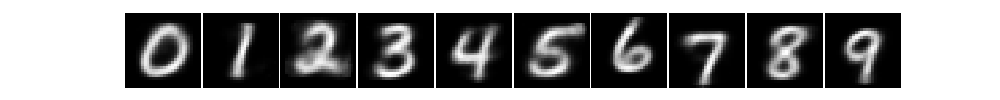
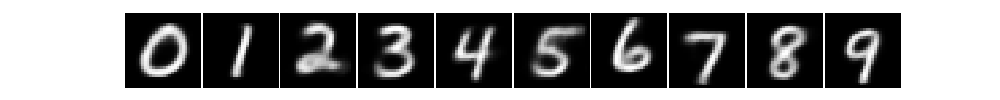
generation using cnn end2end

diff --git a/autoencoders/models.py b/autoencoders/models.py
@@ -3,7 +3,7 @@ import numpy as np
 import keras
 from keras.models import Model
 from keras.layers import Input, Dense, Dropout, Lambda, Activation, Reshape, Flatten
-from keras.layers import Conv2D, MaxPooling2D, UpSampling2D
+from keras.layers import Conv2D, MaxPooling2D, UpSampling2D, Conv2DTranspose
 
 class Flatten_AE():
 
@@ -24,7 +24,7 @@ class Flatten_AE():
 		self.encoder = Model(self.encoder_input, self.encoder_layer)
 		self.decoder_layers = lambda x: decode_dense_3(decode_dense_2(decode_dense_1(x)))
 
-class CNN_AE_old():
+class CNN_AE():
 	def __init__(self, input_size, latent_size, img_size):
 		self.encoder_input = Input(shape=(input_size,), name='enc_input') 
 		x = Dense(img_size**2, activation='relu', name='enc_dense_1')(self.encoder_input)
@@ -58,32 +58,58 @@ class CNN_AE_old():
 		self.ae = Model(self.encoder_input, decoded_layer)
 		self.encoder = Model(self.encoder_input, self.encoder_layer)
 
+# class CNN_AE():
+# 	def __init__(self, input_size, latent_size, img_size):
+# 		self.encoder_input = Input(shape=(input_size,), name='enc_input') 
+# 		x = Dense(img_size**2, activation='relu', name='enc_dense_1')(self.encoder_input)
+# 		x = Reshape((img_size, img_size, 1), name='enc_reshape')(x)
+# 		x = Conv2D(16, (3, 3), activation='relu', padding='same', strides=3, name='enc_conv_1')(x)
+# 		x = MaxPooling2D((2, 2), padding='same', strides=2, name='enc_pool_1')(x)
+# 		x = Conv2D(8, (3, 3), activation='relu', padding='same', strides=2, name='enc_conv_2')(x)
+# 		x = MaxPooling2D((2, 2), padding='same', strides=2, name='enc_pool_2')(x)
+# 		# 2,2,8
+		
+# 		x = Flatten(name='enc_flattent')(x)
+# 		self.encoder_layer = Activation('sigmoid')(x) #Dense(latent_size, activation='sigmoid', name='enc_dense_2')(x)
 
-class CNN_AE():
-	def __init__(self, input_size, latent_size, img_size):
-		self.encoder_input = Input(shape=(input_size,), name='enc_input') 
-		x = Dense(img_size**2, activation='relu', name='enc_dense_1')(self.encoder_input)
-		x = Reshape((img_size, img_size, 1), name='enc_reshape')(x)
-		x = Conv2D(32, (3, 3), activation='relu', padding='same', name='enc_conv_1')(x)
-		x = Conv2D(64, (3, 3), activation='relu', padding='same', name='enc_conv_2')(x)
-		x = MaxPooling2D((2, 2), padding='same', name='enc_pool_2')(x)
-		x = Dropout(0.25)(x)
-		print x
-		x = Flatten(name='enc_flattent')(x)
-		x = Dense(128, activation='relu')(x)
-		x = Dropout(0.5)(x)
-		self.encoder_layer = Dense(latent_size, activation='sigmoid', name='enc_dense_2')(x)
+# 		dec_1 = Reshape((2,2,8), name='dec_reshape')
+# 		dec_2 = Conv2DTranspose(16, (3, 3), activation='relu', strides=2, padding='valid', name='dec_conv_1')
+# 		dec_3 = Conv2DTranspose(8, (5, 5), activation='relu', strides=3, padding='same', name='dec_conv_2')
+# 		dec_4 = Conv2DTranspose(1, (2, 2), activation='relu', strides=2, padding='same', name='dec_conv_3')
+# 		dec_5 = Flatten(name='dec_flatten')
+# 		dec_6 = Dense(input_size, activation='sigmoid', name='dec_dense_1')
 
-		dec_0 = Dense(128, activation='relu', name='dec_dense_1')
-		dec_1 = Reshape((4,4,8), name='dec_reshape')
-		dec_2 = Conv2D(64, (3, 3), activation='relu', padding='same', name='dec_conv_1')
-		dec_3 = UpSampling2D((2, 2), name='dec_sampling_1')
-		dec_4 = Conv2D(32, (3, 3), activation='relu', padding='same', name='dec_conv_2')
-		dec_5 = Flatten(name='dec_flatten')
-		dec_6 = Dense(input_size, activation='sigmoid', name='dec_dense_2')
+# 		self.decoder_layers = lambda x: dec_6(dec_5(dec_4(dec_3(dec_2(dec_1(x))))))
+# 		decoded_layer = self.decoder_layers(self.encoder_layer)
 
-		self.decoder_layers = lambda x: dec_6(dec_5(dec_4(dec_3(dec_2(dec_1(dec_0(x)))))))
-		decoded_layer = self.decoder_layers(self.encoder_layer)
+# 		self.ae = Model(self.encoder_input, decoded_layer)
+# 		self.encoder = Model(self.encoder_input, self.encoder_layer)
 
-		self.ae = Model(self.encoder_input, decoded_layer)
-		self.encoder = Model(self.encoder_input, self.encoder_layer)
+# class CNN_AE():
+# 	def __init__(self, input_size, latent_size, img_size):
+# 		self.encoder_input = Input(shape=(input_size,), name='enc_input') 
+# 		x = Dense(img_size**2, activation='relu', name='enc_dense_1')(self.encoder_input)
+# 		x = Reshape((img_size, img_size, 1), name='enc_reshape')(x)
+# 		x = Conv2D(32, (3, 3), activation='relu', padding='same', name='enc_conv_1')(x)
+# 		x = Conv2D(64, (3, 3), activation='relu', padding='same', name='enc_conv_2')(x)
+# 		x = MaxPooling2D((2, 2), padding='same', name='enc_pool_2')(x)
+# 		x = Dropout(0.25)(x)
+# 		x = Flatten(name='enc_flattent')(x)
+# 		x = Dense(128, activation='relu')(x)
+# 		x = Dropout(0.5)(x)
+# 		self.encoder_layer = Dense(latent_size, activation='sigmoid', name='enc_dense_2')(x)
+
+# 		dec_0 = Dense(128, activation='relu', name='dec_dense_1')
+# 		dec_1 = Dense(12544, activation='relu', name='dec_dense_2')
+# 		dec_2 = Reshape((14, 14, 64), name='dec_reshape')
+# 		dec_3 = Conv2D(64, (3, 3), activation='relu', padding='same', name='dec_conv_1')
+# 		dec_4 = UpSampling2D((2, 2), name='dec_sampling_1')
+# 		dec_5 = Conv2D(32, (3, 3), activation='relu', padding='same', name='dec_conv_2')
+# 		dec_6 = Flatten(name='dec_flatten')
+# 		dec_7 = Dense(input_size, activation='sigmoid', name='dec_dense_3')
+
+# 		self.decoder_layers = lambda x: dec_7(dec_6(dec_5(dec_4(dec_3(dec_2(dec_1(dec_0(x))))))))
+# 		decoded_layer = self.decoder_layers(self.encoder_layer)
+
+# 		self.ae = Model(self.encoder_input, decoded_layer)
+# 		self.encoder = Model(self.encoder_input, self.encoder_layer)

diff --git a/baselines/cnn_generator.py b/baselines/cnn_generator.py
@@ -1,0 +1,56 @@
+import numpy as np
+import matplotlib.pyplot as plt
+
+import keras
+from keras.datasets import mnist
+from keras.models import Sequential
+from keras.layers import Dense, Reshape
+from keras.layers import Conv2D, UpSampling2D
+from keras.utils import to_categorical
+
+(y_train, x_train),(y_test, x_test) = mnist.load_data()
+y_train, y_test = y_train / 255.0, y_test / 255.0
+x_train = to_categorical(x_train)
+x_test = to_categorical(x_test)
+
+model = Sequential([
+    Dense(128, activation='relu', name='dec_dense_1', input_shape=(10,)),
+    Reshape((4,4,8), name='dec_reshape'),
+    Conv2D(8, (3, 3), activation='relu', padding='same', name='dec_conv_1'),
+    UpSampling2D((2, 2), name='dec_sampling_1'),
+    Conv2D(8, (3, 3), activation='relu', padding='same', name='dec_conv_2'),
+    UpSampling2D((2, 2), name='dec_sampling_2'),
+    Conv2D(16, (3, 3), activation='relu', name='dec_conv_3'),
+    UpSampling2D((2, 2), name='dec_sampling_3'),
+    Conv2D(1, (3, 3), activation='sigmoid', padding='same', name='dec_conv_4'),
+    Reshape((28,28))
+])
+model.compile(optimizer='adam',
+              loss='binary_crossentropy',
+              metrics=['mae'])
+
+model.fit(x_train, y_train, epochs=10)
+
+score = model.evaluate(x_test, y_test, verbose=0)
+print 'Test loss:', score[0]
+print 'Test accuracy:', score[1]
+
+x_test_gen = np.eye(10)
+gen = model.predict(x_test_gen)
+
+def plot(gen):
+    num_rows = 1
+    num_cols = 10
+    f, ax = plt.subplots(num_rows, num_cols, figsize=(10,1),
+                        gridspec_kw={'wspace':0.03, 'hspace':0.01}, 
+                        squeeze=True)
+    for r in range(num_rows):
+        for c in range(num_cols):
+            image_index = r * num_cols + c
+            ax[c].axis("off")
+            ax[c].imshow(gen[image_index], cmap='gray')
+            # ax[c].set_title('No. %d' % image_index)
+    plt.show()
+    plt.close()
+
+plot(gen)

diff --git a/ae_classifier.py b/ae_classifier.py
@@ -21,20 +21,25 @@ x_train, y_train, xy_train, x_xy_y_train, x_test, y_test_gen = data2
 IMG_SIZE = x_train_orig.shape[1]
 INPUT_SIZE = x_train.shape[1]
 LATENT_SIZE = 32
-
+EPOCHS = 50
+BATCH_SIZE = 64
 
 ##############
 # Autoencoder
 if args['model'] == 'flatten':
 	ae_model = Flatten_AE(INPUT_SIZE, LATENT_SIZE)
+	EPOCHS = 50
+	BATCH_SIZE = 64
 elif args['model'] == 'cnn':
 	ae_model = CNN_AE(INPUT_SIZE, LATENT_SIZE, IMG_SIZE)
+	EPOCHS = 10
+	BATCH_SIZE = 128
 
 ae_model.ae.compile(optimizer='adam',
 				loss='binary_crossentropy',
 				metrics=['mae'])
 
-ae_model.ae.fit(x_xy_y_train, x_xy_y_train, epochs=50, shuffle=True, batch_size=64)
+ae_model.ae.fit(x_xy_y_train, x_xy_y_train, epochs=EPOCHS, shuffle=True, batch_size=BATCH_SIZE)
 
 score = ae_model.ae.evaluate(x_test, x_test, verbose=0)
 print 'Test loss:', score[0]

diff --git a/README.md b/README.md
@@ -2,23 +2,23 @@
 
 
 ### Autoencoding (flatten)
-Test loss: 0.12039102125167847
-Test accuracy: 0.05656530033349991
+Test loss: 0.11078792009353637
+Test accuracy: 0.049322482126951214
 
 ### Classification 
 Input handwritten digit, output class as a probability vector
 
 #### Feature extraction (flatten)
-Test loss: 0.3349499772429466
-Test accuracy: 0.9001
+Test loss: 0.32502294434309004
+Test accuracy: 0.9077
 
 #### Pattern matching (flatten)
 Test loss: 1.7224794626235962
 Test accuracy: 0.7823
 
 #### Pattern completion  (flatten)
-Test loss: 1.9187672679901122
-Test accuracy: 0.9314
+Test loss: 1.9041902032852174
+Test accuracy: 0.9353
 
 #### Pattern completion (all) (flatten)
 Test loss: 1.9410147674560547
@@ -29,6 +29,9 @@ Input one-hot encoded label, output handwritten digit.
 
 #### End-to-End (flatten)
 ![Digit generation using end-to-end model](./images/flatten_generation_E2E.png)
+
+#### End-to-End (CNN)
+![Digit generation using end-to-end model](./images/cnn_generation_E2E.png)
 
 #### Pattern completion (flatten)
 ![Digit generation using pattern completion](./images/flatten_generation_PCL.png)
